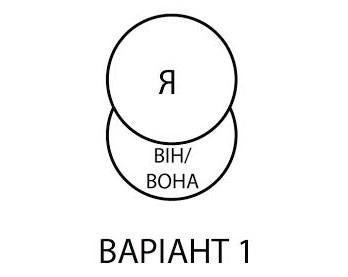
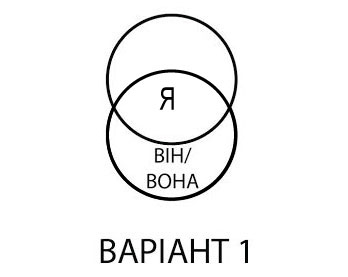
fix circles images, tests' text, show witkin timer countdown

diff --git a/src/app/components/witkin/WitkinHelp.html b/src/app/components/witkin/WitkinHelp.html
@@ -1,38 +1,39 @@
-<h3>Інструкція з тесту.</h3>
-<div>
-  <img src="images/witkin_help_1.jpg">
-  <p>1. Спочатку, впродовж п’ятнадцяти секунд, ви побачите складну фігуру. Її необхідно ретельно роздивитись і запам’ятати.</p>
-</div>
-<div>
-  <img src="images/witkin_help_2.jpg">
-  <p>2. Далі на екрані з’явиться проста фігура. Це триватиме десять секунд. Після того, ви знов побачите складну фігуру. Разом з тим розпочнеться відлік часу. </p>
-</div>
-<div>
-  <p>3. Як тільки ви віднайдете просту фігуру у складній, натисніть кнопку «ФІГУРУ ЗНАЙДЕНО».</p>
-</div>
-<div>
-  <img src="images/witkin_help_3.jpg">
-  <p>4. Усі лінії складної фігури стануть інтерактивними. При наведенні курсору лінія забарвлюється в синій колір.
-</div>
-<div>
-  <img src="images/witkin_help_4.jpg">
-  <p>5. Щоб виділити лінію, клацніть по ній лівою кнопкою миші. Колір лінії при цьому зміниться на жовтий.</p>
-</div>
-<div>
-  <img src="images/witkin_help_5.jpg">
-  <p>За допомогою курсору слід виділити ті грані складної фігури, які утворюють просту фігуру. Коли завдання виконано, натисніть кнопку «ДАЛІ».</p>
-</div>
-
-<div class="alert alert-danger text-center">
-  <h2>Увага!</h2>
-  <strong>Дуже важливо натискати кнопку «ФІГУРУ ЗНАЙДЕНО» тільки після того, як ви побачили просту фігуру у складній. Це необхідно для отримання коректних результатів нашого дослідження. В іншому випадку воно виявиться недостовірним.
-    Дякуємо за свідому позицію!</strong>
-</div>
-<hr>
-<div class="form-group">
-  <div class="col-sm-6 col-sm-offset-3">
-    <button type="submit" class="btn btn-primary btn-block" ng-click="$ctrl.startTest()">Розпочати тест</button>
+<div class="marginLeft10"><h3>Інструкція.</h3>
+  <div>
+    <p>1. Спочатку, впродовж п’ятнадцяти секунд, ви побачите складну фігуру. Її необхідно ретельно роздивитись і запам’ятати. (Ілюстрація 1)</p>
+    <img src="images/witkin_help_1.jpg" id="image1"><label for="image1">Ілюстрація 1</label><Br>
   </div>
+  <div>
+    <p>2. Далі на екрані з’явиться проста фігура. Це триватиме десять секунд. Після того, ви знов побачите складну фігуру. Разом з тим розпочнеться відлік часу.  (Ілюстрація 2) </p>
+    <img src="images/witkin_help_2.jpg" id="image2"><label for="image1">Ілюстрація 2</label><Br>
+  </div>
+  <div>
+    <p>3. Як тільки ви віднайдете просту фігуру у складній, натисніть кнопку «ФІГУРУ ЗНАЙДЕНО».</p>
+  </div>
+  <div>
+    <p>4. Усі лінії складної фігури стануть інтерактивними. При наведенні курсору лінія забарвлюється в синій колір.  (Ілюстрація 3) </p>
+    <img src="images/witkin_help_3.jpg" id="image3"><label for="image1">Ілюстрація 3</label><Br>
+  </div>
+  <div>
+    <p>5. Щоб виділити лінію, клацніть по ній лівою кнопкою миші. Колір лінії при цьому зміниться на жовтий.  (Ілюстрація 4) </p>
+    <img src="images/witkin_help_4.jpg" id="image4"><label for="image1">Ілюстрація 4</label><Br>
+  </div>
+  <div>
+    <p>За допомогою курсору слід виділити ті грані складної фігури, які утворюють просту фігуру (Ілюстрація 5). Коли завдання виконано, натисніть кнопку «ДАЛІ». </p>
+    <img src="images/witkin_help_5.jpg" id="image5"><label for="image1">Ілюстрація 5</label><Br>
+  </div>
+
+  <div class="alert alert-danger text-center">
+    <h2>Увага!</h2>
+    <strong>Дуже важливо натискати кнопку «ФІГУРУ ЗНАЙДЕНО» тільки після того як ви побачили просту фігуру у складній. Це необхідно для отримання коректних результатів нашого дослідження. В іншому випадку воно виявиться недостовірним.
+      Дякуємо за свідому позицію!</strong>
+  </div>
+  <hr>
+  <div class="form-group">
+    <div class="col-sm-6 col-sm-offset-3">
+      <button type="submit" class="btn btn-primary btn-block" ng-click="$ctrl.startTest()">Розпочати тест</button>
+    </div>
+  </div>
+  <br>
+  <br>
 </div>
-<br>
-<br>

diff --git a/src/app/components/witkin/WitkinTest.js b/src/app/components/witkin/WitkinTest.js
@@ -10,8 +10,11 @@ class WitkinTestController {
     this.SHOW_TEST_TIME = 15000;
     this.SHOW_REQUIRED_TIME = 10000;
     this.startTime = 0;
+    this.totalTime = 0;
     this.isTestStarted = false;
     this.isTimerStarted = false;
+    this.TEXT_STEP_1 = 'Складна фігура';
+    this.TEXT_STEP_2 = 'Проста фігура';
     this.canvas = new fabric.Canvas('c');
     this.id = parseInt($stateParams.id, 10);
     $http.get('tests/test' + this.id + '.json')
@@ -55,7 +58,11 @@ class WitkinTestController {
           multipleAnswers.push(obj);
         }
       }
-      obj.selectable = false;
+      obj.hasControls = false;
+      obj.lockMovementX = true;
+      obj.lockMovementY = true;
+      obj.lockRotation = true;
+      obj.selectable = obj.id !== 'background';
     });
     multipleAnswers.forEach(obj => {
       answersNumbers.forEach(answer => {
@@ -65,27 +72,72 @@ class WitkinTestController {
       });
     });
     this.showLayers(['background', 'lines'].concat(this.answers));
-    this.info = 'Спочатку роздивіться складну фігуру';
+    this.info = this.TEXT_STEP_1 + ' ' + (this.SHOW_TEST_TIME / 1000) + ' с. ';
     this.refresh();
     console.log('init complete');
-    this.$timeout(this.showRequired.bind(this), this.SHOW_TEST_TIME);
+    this.$timeout(this.showRequired.bind(this), 1000);
+    this.zoomIt(1.5);
+  }
+  zoomIt(factor) {
+    this.canvas.setHeight(this.canvas.getHeight() * factor);
+    this.canvas.setWidth(this.canvas.getWidth() * factor);
+    if (this.canvas.backgroundImage) {
+      // Need to scale background images as well
+      const bi = this.canvas.backgroundImage;
+      bi.width *= factor;
+      bi.height *= factor;
+    }
+    const objects = this.canvas.getObjects();
+// eslint-disable-next-line
+    for (let i in objects) {
+      const scaleX = objects[i].scaleX;
+      const scaleY = objects[i].scaleY;
+      const left = objects[i].left;
+      const top = objects[i].top;
+
+      const tempScaleX = scaleX * factor;
+      const tempScaleY = scaleY * factor;
+      const tempLeft = left * factor;
+      const tempTop = top * factor;
+
+      objects[i].scaleX = tempScaleX;
+      objects[i].scaleY = tempScaleY;
+      objects[i].left = tempLeft;
+      objects[i].top = tempTop;
+
+      objects[i].setCoords();
+    }
+    this.canvas.renderAll();
+    this.canvas.calcOffset();
   }
   showRequired() {
-    this.showLayers(['required']);
-    this.info = 'Тепер запам\'ятайте фігуру, яку треба знайти';
-    this.refresh();
-    this.$timeout(this.startTimer.bind(this), this.SHOW_REQUIRED_TIME);
+    this.SHOW_TEST_TIME -= 1000;
+    if (this.SHOW_TEST_TIME === 0) {
+      this.showLayers(['required']);
+      this.info = this.TEXT_STEP_2 + ' ' + (this.SHOW_REQUIRED_TIME / 1000) + ' с. ';
+      this.refresh();
+      this.$timeout(this.startTimer.bind(this), 1000);
+    } else {
+      this.info = this.TEXT_STEP_1 + ' ' + (this.SHOW_TEST_TIME / 1000) + ' с. ';
+      this.$timeout(this.showRequired.bind(this), 1000);
+    }
   }
   startTimer() {
-    this.showLayers(['background', 'lines'].concat(this.answers));
-    this.startTime = this.getCurrentTime();
-    this.info = '';
-    this.isTimerStarted = true;
-    this.refresh();
+    this.SHOW_REQUIRED_TIME -= 1000;
+    if (this.SHOW_REQUIRED_TIME === 0) {
+      this.showLayers(['background', 'lines'].concat(this.answers));
+      this.startTime = this.getCurrentTime();
+      this.info = '';
+      this.isTimerStarted = true;
+      this.refresh();
+    } else {
+      this.info = this.TEXT_STEP_2 + ' ' + (this.SHOW_REQUIRED_TIME / 1000) + ' с. ';
+      this.$timeout(this.startTimer.bind(this), 1000);
+    }
   }
   startTest() {
-    this.totalTime = this.getCurrentTime() - this.startTime;
-    this.info = this.totalTime;
+    this.totalTime += (this.getCurrentTime() - this.startTime);
+    this.info = ''; // this.totalTime;
     this.isTestStarted = true;
   }
   addToLayer(obj) {
@@ -161,7 +213,11 @@ class WitkinTestController {
         this.$state.go('circles');
       }
     } else {
-      this.info = 'Не вірно, спробуйте ще';
+      this.reset();
+      this.startTime = this.getCurrentTime();
+      this.isTestStarted = false;
+      this.isTimerStarted = true;
+      this.info = 'Не вірно, спробуйте знов';
     }
   }
   checkSelectedFigure() {

diff --git a/src/app/components/Main.html b/src/app/components/Main.html
@@ -2,7 +2,7 @@
   <h3 class="text-center">Вітаємо вас на нашому сайті!</h3>
   <p class="text-center">Ми раді, що ви знайшли час, щоб пройти наш тест.</p>
   <p class="text-center">
-    Вам буде запропоновано три окремі методики. Вони спрямовані на вивчення ваших особистісних властивостей. В подальшому, при обробці результатів, ми не будемо окремо аналізувати ваші відповіді. Всі результати оброблятимуться як загальний масив даних. Тож, дякуємо за вашу відвертість!
+    Вам буде запропоновано три окремі методики. Вони спрямовані на вивчення ваших особистісних властивостей. При обробці результатів ми не будемо окремо аналізувати ваші відповіді. Всі результати оброблятимуться як загальний масив даних. Тож дякуємо за вашу відвертість!
   </p>
 </div>
 <hr>
@@ -12,7 +12,7 @@
       <label for="firstName" class="col-sm-3 control-label">Ім'я</label>
       <div class="col-sm-9">
         <input type="text" id="firstName" placeholder="Іван" class="form-control" autofocus ng-model="name">
-        <!--<span class="help-block">П.І.Б. або псевдонім</span>-->
+        <span class="help-block">П.І.Б. або псевдонім</span>
       </div>
     </div>
     <div class="form-group">
@@ -45,7 +45,8 @@
     <div class="form-group">
       <label for="marital" class="col-sm-3 control-label">Сімейний стан</label>
       <div class="col-sm-9">
-        <input type="text" id="marital" placeholder="студент" class="form-control" autofocus ng-model="marital">
+        <input type="text" id="marital" placeholder="" class="form-control" autofocus ng-model="marital">
+        <span class="help-block">одружений(а) / неодружений(а)</span>
       </div>
     </div>
     <div class="form-group">
